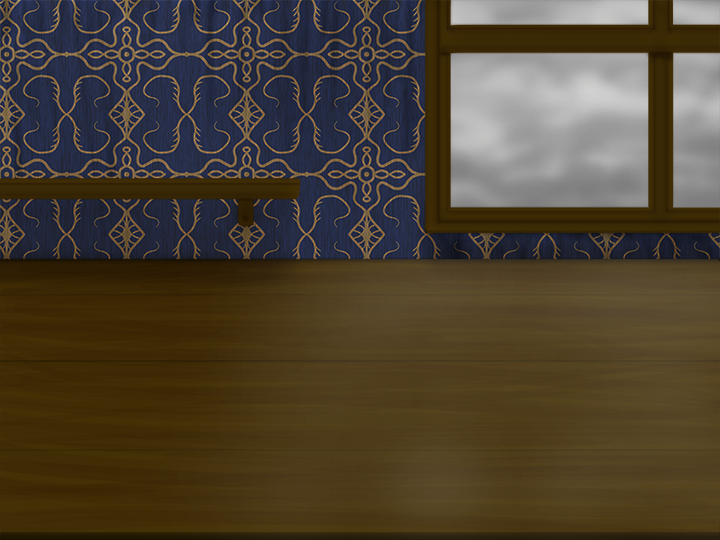
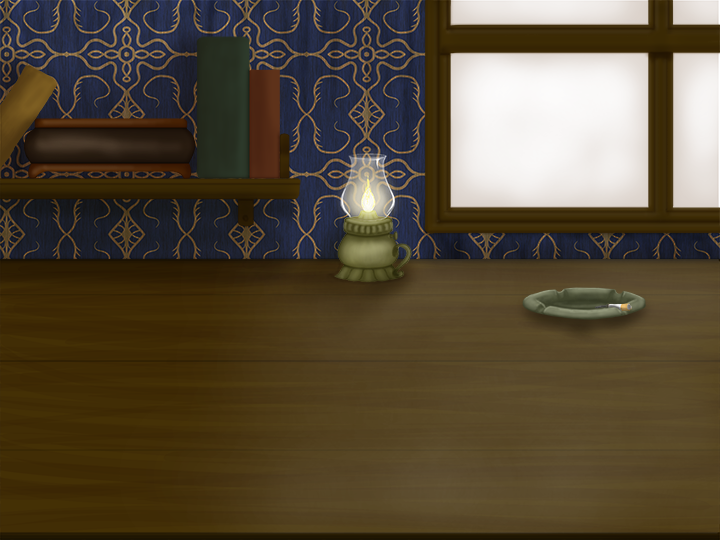
clouds not working

diff --git a/src/scenes/Desk.js b/src/scenes/Desk.js
@@ -18,7 +18,7 @@ class Desk extends Phaser.Scene {
         bg.scaleX = 1.39;
 
         // add scene elements
-        let lamp = this.physics.add.sprite(400, 135, 'lamp').setOrigin(0, 0).setScale(0.13).setPipeline('Light2D');
+        let lamp = this.physics.add.sprite(400, 135, 'lamp').setOrigin(0, 0).setScale(0.13).setDepth(-2).setPipeline('Light2D');
         let journal = this.add.sprite(125, 350, 'journal').setOrigin(0, 0).setScale(0.7).setPipeline('Light2D');
         let startnoteDesk = this.add.image(900, 330, 'helpNote').setVisible(false);
         journal.visible = true;
@@ -42,7 +42,7 @@ class Desk extends Phaser.Scene {
 
         // Lamp interactive settings
         lamp.setInteractive({
-            draggable: true,
+            draggable: false,
             useHandCursor: true
         });
         this.input.on('drag', function (pointer, lamp, dragX, dragY) {
@@ -117,7 +117,7 @@ class Desk extends Phaser.Scene {
         // make container
         let journalContainer = this.add.container(100, 10, jcContents);
         journalContainer.setDepth(5);   // sets to top of scene
-        journalContainer.setScale(2.3);
+        journalContainer.setScale(1.5);
         journalContainer.setInteractive(new Phaser.Geom.Rectangle(0, 0, journal2.width, journal2.height), Phaser.Geom.Rectangle.Contains);
         this.input.setDraggable(journalContainer);
         turnLeft.setVisible(false);     // defaults to first page so can't turn left

diff --git a/src/scenes/Menu.js b/src/scenes/Menu.js
@@ -4,10 +4,12 @@ class Menu extends Phaser.Scene {
     }
 
     create() {
-        let bg = this.add.image(0, 0, 'background').setOrigin(0, 0).setScale(1.1).setPipeline('Light2D');
+        let bg = this.add.image(0, 0, 'background').setOrigin(0).setDepth(-1).setScale(1.1).setPipeline('Light2D');
         bg.scaleX = 1.39;
+        let clouds = this.add.tileSprite(605, 0, 360, 240, 'clouds').setOrigin(0).setDepth(-2);
+        clouds.scaleX = 1.1;
 
-        let lamp = this.add.sprite(400, 135, 'lamp').setOrigin(0, 0).setScale(0.13).setPipeline('Light2D');
+        // let lamp = this.add.sprite(400, 135, 'lamp').setOrigin(0, 0).setScale(0.13).setPipeline('Light2D');
         // let journal = this.add.sprite(350, 350, 'journal').setOrigin(0, 0).setScale(0.7).setPipeline('Light2D');
 
         let light = this.lights.addLight(485, 200, 50000, '0xFFFCBB').setIntensity(2);
@@ -64,5 +66,8 @@ class Menu extends Phaser.Scene {
         this.cameras.main.once(Phaser.Cameras.Scene2D.Events.FADE_OUT_COMPLETE, (cam, effect) => {
             this.scene.start('deskscene');
         })
+    }
+    update() {
+        this.clouds.tilePositionX -= 1;
     }
 }

diff --git a/src/scenes/Preload.js b/src/scenes/Preload.js
@@ -4,16 +4,17 @@ class Preload extends Phaser.Scene {
     }
 
     preload() {
-        this.load.image("desk_Bg", './assets/desk.png');
+        // this.load.image("desk_Bg", './assets/desk.png');
         this.load.image("background", './assets/Background.png');
+        this.load.image("clouds", './assets/clouds.png');
         this.load.image("lamp", './assets/oilLamp.png');
         this.load.image("playButton", './assets/playButton.png');
         this.load.image("menuButton", './assets/menuButton.png');
         this.load.image("helpNote", './assets/helpNote.png');
 
         // Journal
-        this.load.image("journal", './assets/journalCover.png');
-        this.load.image("journalOpen", './assets/journal1-2.png');
+        this.load.image("journal", './assets/book-closed.png');
+        this.load.image("journalOpen", './assets/book-open.png');
         this.load.image("close", './assets/closeButton.png');
         this.load.image('right', './assets/pageRight.png');
         this.load.image('left', './assets/pageLeft.png');
